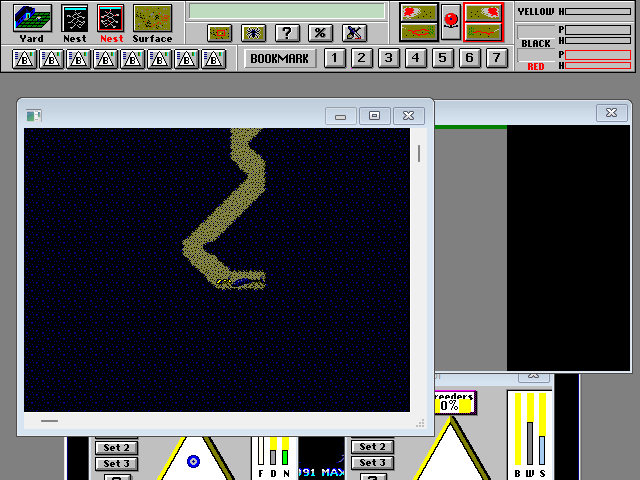
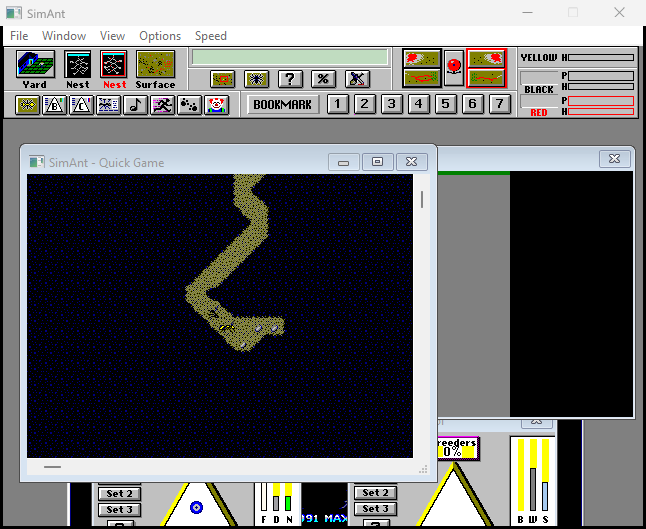
Colony runs at speed; user buttons show their tools
The simulation lives in a TIMERPROC, which the runtime now calls (pcrecomp
#116), and GetProfileInt reads the ribbon's button choices.

diff --git a/README.md b/README.md
@@ -8,7 +8,7 @@ and host runtime, the same code that runs [Catz](https://github.com/sp00nznet/ca
 Dogz and Oddballz. This repository holds only what is SimAnt's own: how to
 lift it, the few facts about the game the runtime needs, and the notes.
 
-![The recompiled SimAnt in a Quick Game: the black queen digging her first tunnel](docs/quick-game.png)
+![The recompiled SimAnt a minute into a Quick Game: the black queen has dug her tunnel and laid her first eggs](docs/quick-game.png)
 
 ## Status
 
@@ -16,10 +16,10 @@ lift it, the few facts about the game the runtime needs, and the notes.
 
 Every function lifts and links (12,612 lifted blocks, 0 unresolved calls).
 The game boots to its **Select a Game** screen with its own menu bar (File,
-Window, View, Options, Speed). Clicking **Quick Game** opens the nest view,
-and the black queen digs her first tunnel while the caste and behavior panels
-run beside it. All of it is the game's own code. Sound, some tool icons and
-much of the interface are still missing; see [ROADMAP.md](ROADMAP.md).
+Window, View, Options, Speed). Clicking **Quick Game** opens the nest view.
+Within a minute the black queen digs her tunnel and lays her first eggs, while
+the caste and behavior panels run beside it. All of it is the game's own code.
+Sound and parts of the interface are still missing; see [ROADMAP.md](ROADMAP.md).
 
 ![The Select a Game screen, with the game's menu bar](docs/select-a-game.png)
 
@@ -69,6 +69,13 @@ title gets them:
   `RecompGame.real_windows` gives it real geometry on a 640x480 virtual
   screen, and a maximized frame now means that screen rather than the host's
   desktop.
+- **Timer callbacks** ([#116](https://github.com/sp00nznet/pcrecomp/pull/116)):
+  the whole simulation runs in `MYTIMERFUNC`, the `TIMERPROC` passed to
+  `SetTimer`. The runtime used to post a plain `WM_TIMER` instead, so the colony
+  barely moved.
+- **WIN.INI**: the ribbon's eight user buttons are read from WIN.INI
+  `[SimAnt]` with `GetProfileInt`. When that call was a stub returning 0, all
+  eight showed the same tool.
 - **Mouse polling**: the game takes a click by polling `GetAsyncKeyState` and
   `GetCursorPos` (`_StillDown`, `_GetMousePos`) rather than trusting button
   messages. `scripts/grab.ps1 -Click x,y` drives the runtime's `RECOMP_CURSOR`
